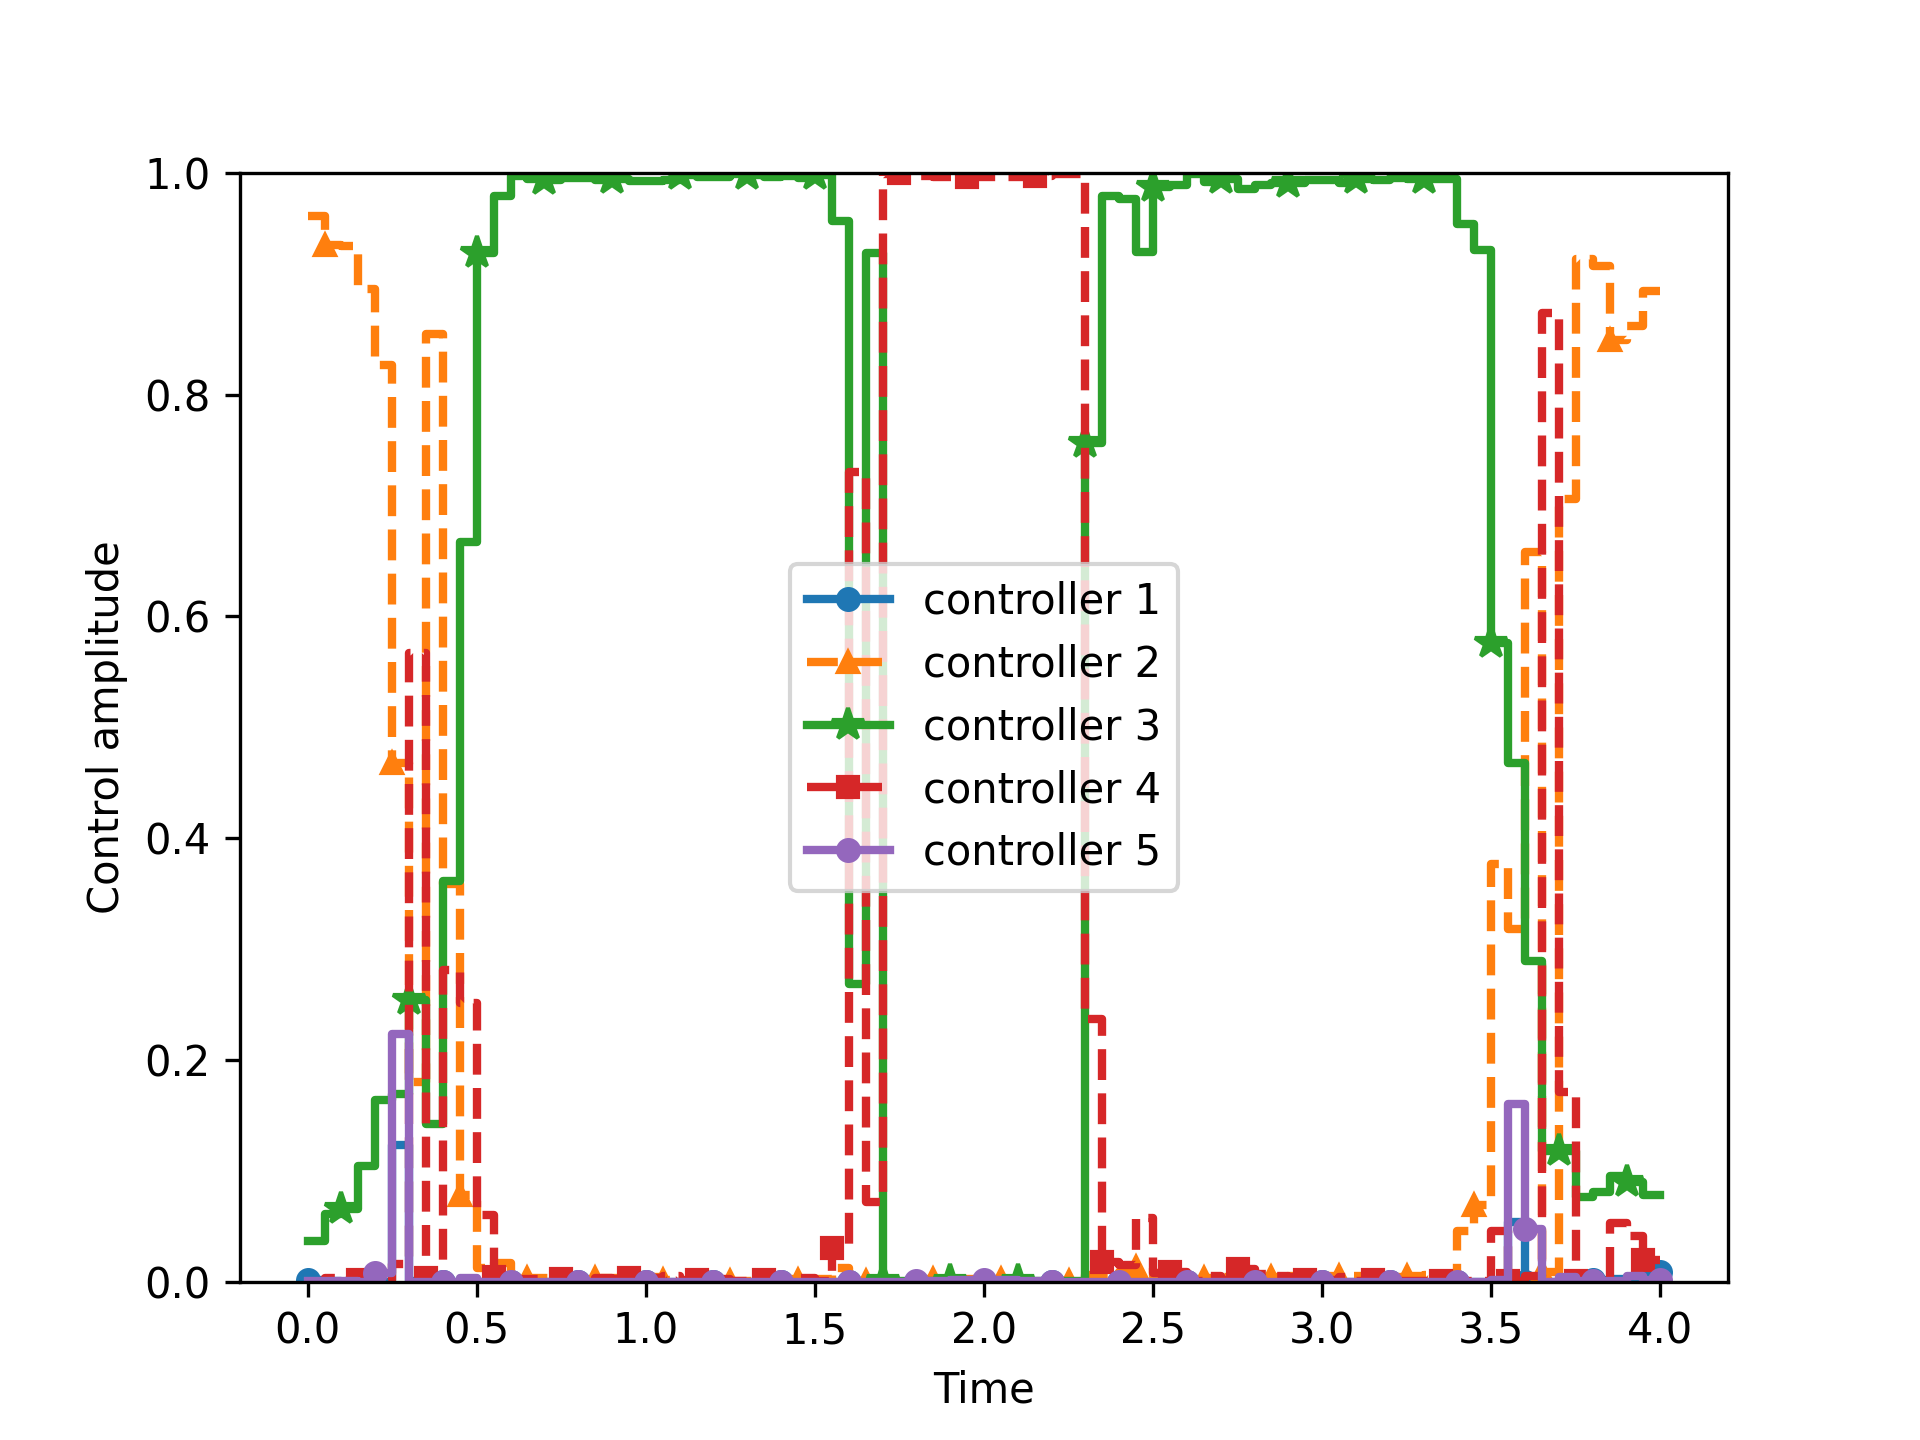
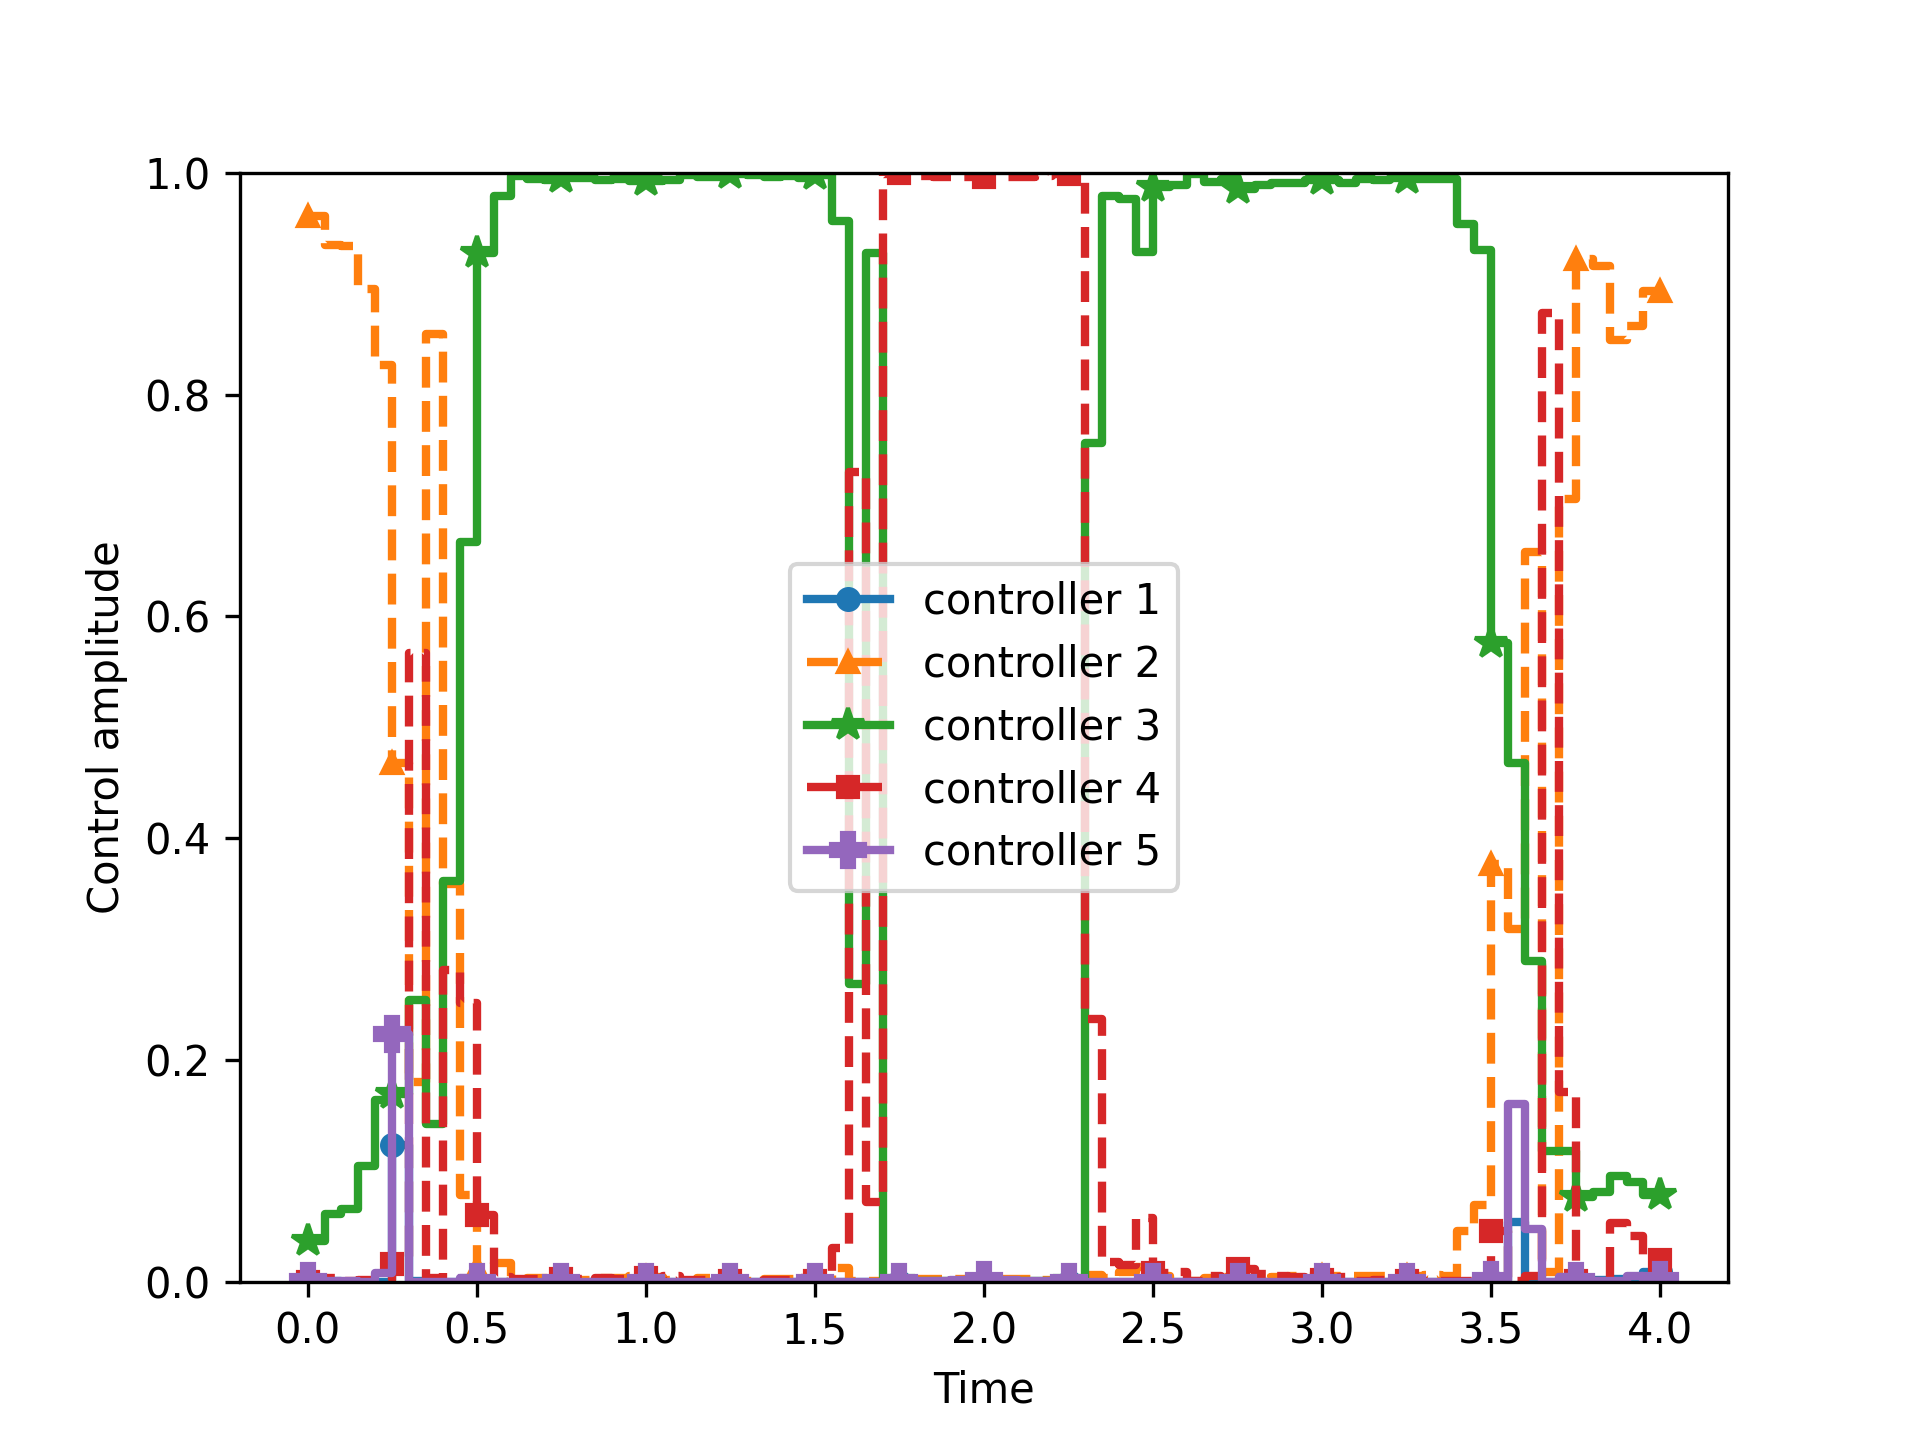
update control figures

diff --git a/tools/draw_figure.py b/tools/draw_figure.py
@@ -1,0 +1,56 @@
+import numpy as np
+import matplotlib.pyplot as plt
+
+
+def draw_stats():
+    x = [0, 1e-6, 1e-5, 1e-4, 1e-3, 1e-2, 1e-1, 1, 10]
+    sum_norm = [167.48180578702548, 167.47867920029202, 95.40499099227462, 34.144492624667244,
+                30.14356912948749, 18.70981873414983, 0.3962903548156124, 5.55381795807922e-07,
+                8.428231286969557e-10]
+
+    print(1 / np.power(np.array(x), 2))
+
+    # plt.plot(np.array(x), np.array(sum_norm), '-o', label='squared_L2_norm')
+    # plt.plot(np.array(x), 1e-9 / np.power(np.array(x), 2))
+    # plt.show()
+    # exit()
+
+    plt.figure(dpi=300)
+    plt.plot(np.array(x), np.array(sum_norm), '-o', label='squared_L2_norm')
+    plt.xlabel("Penalty parameter")
+    plt.ylabel("Squared Penalized Term")
+    plt.legend()
+    plt.savefig("../example/figure/Continuous/MoleculeNew_H2_evotime4.0_n_ts80.png")
+
+    plt.figure(dpi=300)
+    plt.plot(np.log10(np.array(x)), np.array(sum_norm), '-o', label='squared_L2_norm')
+    plt.xlabel("Common logarithm of penalty parameter")
+    plt.ylabel("Squared Penalized Term")
+    plt.legend()
+    plt.savefig("../example/figure/Continuous/MoleculeNew_H2_evotime4.0_n_ts80_log10.png")
+
+
+def draw_control(evo_time, n_ts, control, output_fig):
+    plt.figure(dpi=300)
+    plt.xlabel("Time")
+    plt.ylabel("Control amplitude")
+    plt.ylim([0, 1])
+    marker_list = ['-o', '--^', '-*', '--s', '-P']
+    marker_size_list = [5, 5, 8, 5, 8]
+    for j in range(control.shape[1]):
+        plt.step(np.linspace(0, evo_time, n_ts + 1), np.hstack((control[:, j], control[-1, j])), marker_list[j],
+                 where='post', linewidth=2, label='controller ' + str(j + 1), markevery=5,
+                 markersize=marker_size_list[j])
+    plt.legend()
+    plt.savefig(output_fig)
+
+
+if __name__ == '__main__':
+    evo_time = 4
+    n_ts = 80
+    control = np.loadtxt("../example/control/Rounding/MoleculeNew_H2_evotime4.0_n_ts80_ptypeWARM_offset0.5_objUNIT_sum_penalty1.0_SUR.csv",
+                         delimiter=',')
+    output_fig = "../example/figure/Rounding/MoleculeNew_H2_evotime4.0_n_ts80_ptypeWARM_offset0.5_objUNIT_sum_penalty1.0_binary_SUR.png"
+    draw_control(evo_time, n_ts, control, output_fig)
+
+
